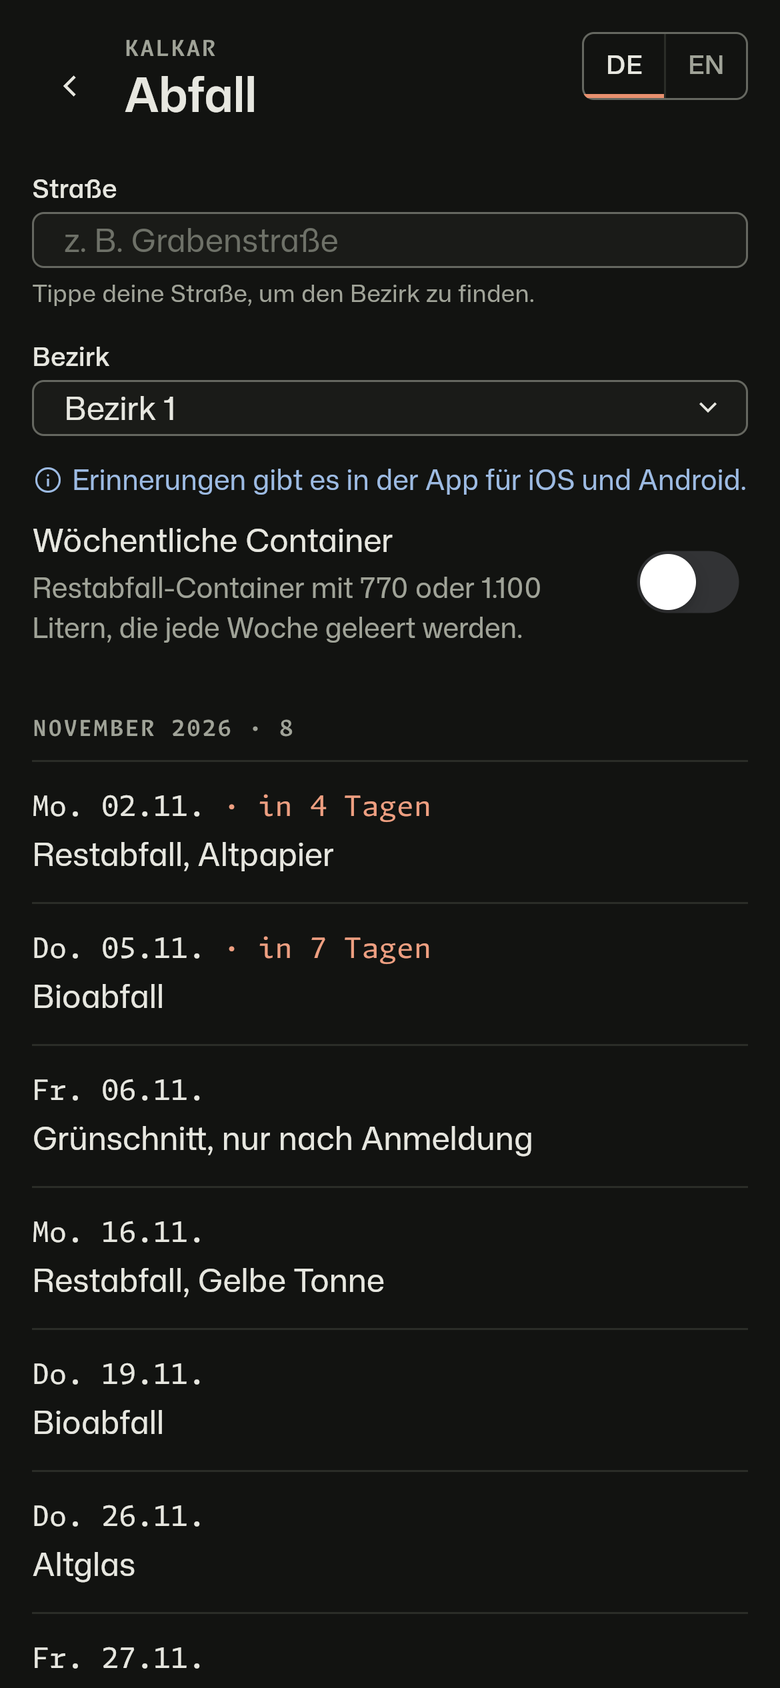
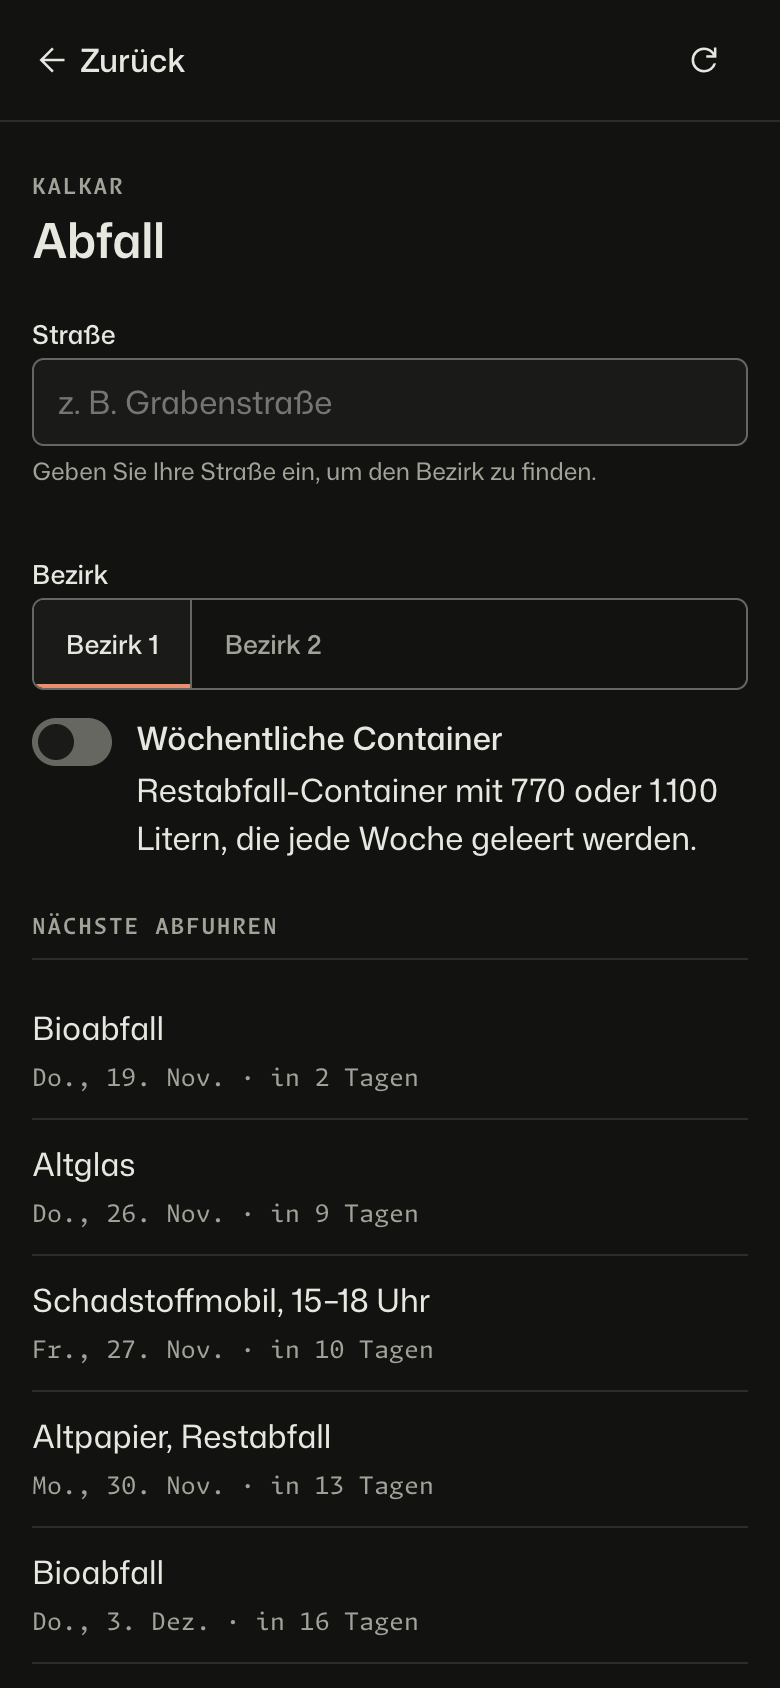
Kompakt: Screenshots aus der neuen Web-App
Die Bilder zeigten noch die Flutter-App. Neu aufgenommen bei 390 × 844 in
doppelter Auflösung, hell und dunkel, aus kalkar-it.de/kompakt/app/ mit
Bezirk 1 gewählt. Der Alt-Text zum Abfall verspricht keine Erinnerung mehr.

diff --git a/content/kompakt.md b/content/kompakt.md
@@ -27,7 +27,7 @@ hero:
 screens:
   - { name: start, label: Start, alt: "Startseite mit Straßensperrungen, Wetter und Rheinpegel, Abfall, Terminen und Einkaufen" }
   - { name: wetter, label: Wetter & Rhein, alt: "Wetter, Warnungen für den Kreis Kleve und der Pegel des Rheins" }
-  - { name: abfall, label: Abfall, alt: "Die nächsten Abfuhrtermine des Bezirks mit Erinnerung am Vorabend" }
+  - { name: abfall, label: Abfall, alt: "Die nächsten Abfuhrtermine des gewählten Bezirks" }
   - { name: termine, label: Termine, alt: "Veranstaltungen und Ratssitzungen der Woche" }
   - { name: karte, label: Karte, alt: "Die eigene Karte von Kalkar mit Hofläden, Haltestellen und Sehenswertem" }
 
